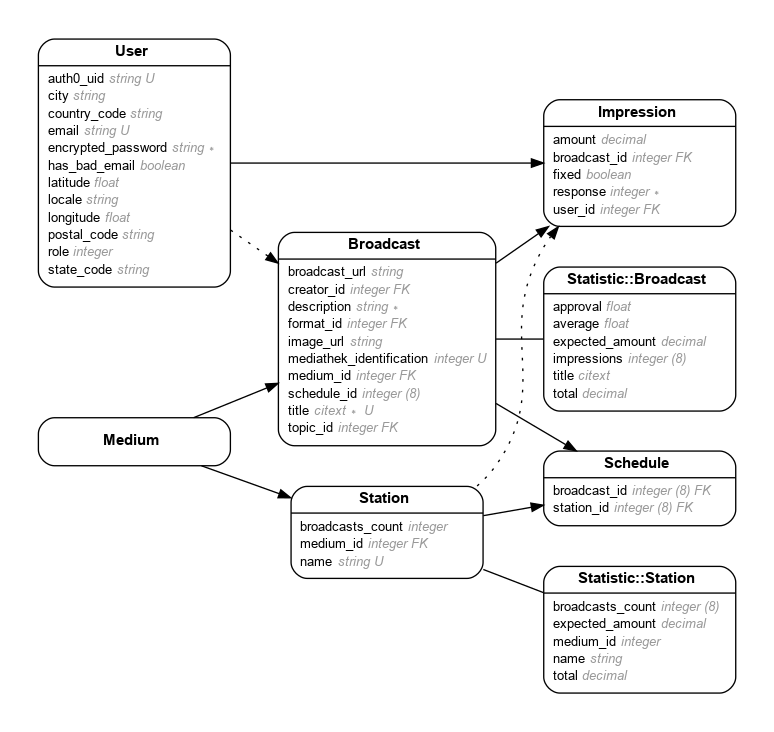
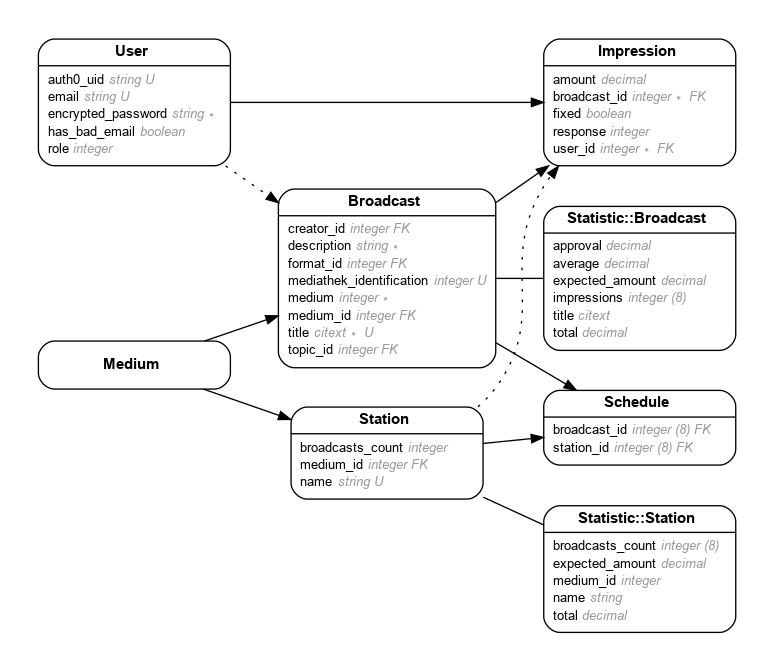
Check in db/schema.rb and generate the ER diagram

diff --git a/backend/db/schema.rb b/backend/db/schema.rb
@@ -56,8 +56,8 @@ ActiveRecord::Schema.define(version: 20171111141249) do
   create_table "impressions", id: :serial, force: :cascade do |t|
     t.integer "response", default: 0
     t.decimal "amount"
-    t.integer "user_id"
-    t.integer "broadcast_id"
+    t.integer "user_id", null: false
+    t.integer "broadcast_id", null: false
     t.datetime "created_at", null: false
     t.datetime "updated_at", null: false
     t.boolean "fixed"
@@ -151,6 +151,8 @@ ActiveRecord::Schema.define(version: 20171111141249) do
   add_foreign_key "broadcasts", "topics"
   add_foreign_key "broadcasts", "users", column: "creator_id"
   add_foreign_key "impressions", "broadcasts"
+  add_foreign_key "impressions", "broadcasts"
+  add_foreign_key "impressions", "users"
   add_foreign_key "impressions", "users"
   add_foreign_key "stations", "media"
 
